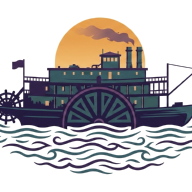
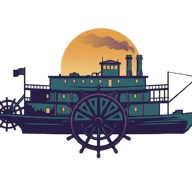
The mark is cut from the drawing that was already on nothing
Named behaviour change: the corner mark and the launcher icon are cut from
art/boat.png, and both show more of the boat.

boat.png is the same riverboat drawn on transparency, with no wave field. It is
a better source than the JPEG in three ways: nothing has to be knocked out of
it, so no edge is guessed at; the boat sits at 49.9% across its own picture
instead of 44.5%, so it needs no correcting; and with no waves running off to
the right the launcher can be larger inside the 72dp circle -- 0.656 of the tile
against 0.711, but of a taller picture, so the boat itself gains.

The corner's window widened with it. It was 0.714 of the width, which on the old
drawing cut only wave tips and the far spar; on this one it cut hull. 0.90 cuts
the flag and the tip of the spar and nothing else.

art/icon.jpeg stays. It is not a source any more but it is the drawing the
swatches' colours were read out of, and the README says which is which.

diff --git a/README.md b/README.md
@@ -927,10 +927,9 @@ foreground drawn on nothing; `res/drawable-xxxhdpi/boat_mark.png` is 108dp with
 the drawing inside the middle 72dp, which is all Android promises to keep -- a
 round launcher cuts the rest away. It is as large as it goes with every inked
 pixel still inside that circle, and it is placed by where the ink is rather than
-by the edges of the picture, so the boat sits in the middle of the circle and
-not to the left of it. The corner's tile is a closer cut of the same drawing,
-because a 38px square has no room for the waters either side. Both come from
-`art/icon.jpeg` at the root of the tree, which is not shipped.
+by the edges of the picture. The corner's tile is a closer cut of the same
+drawing, because a 38px square is squarer than a boat. Both are cut from
+`art/boat.png` at the root of the tree, which is not shipped.
 
 **The splash is still the card mark:** five stacks of cards, 1-2-3-2-1, the hand
 growing to the top of the river and shrinking back down, with the card at the
@@ -1466,7 +1465,7 @@ and lets it off by hand rather than waiting. Run it alone with
   number in the body of the file is a colour no swatch could change, and
   `test-pages.js` fails on one.
 - `public/art/` — the pictures the pages load. `mark.png` is the game's mark, the riverboat drawn on nothing, in the corner of every page that carries the name.
-- `art/` — the drawings the marks are cut from, at the size they were drawn. Kept out of `public/` on purpose: everything under `public/` is packed into the APK and unpacked on the device at first run, and a source file no page loads has no business there.
+- `art/` — the drawings, at the size they were drawn. `boat.png` is what both marks are cut from; `icon.jpeg` is the same boat on a white ground, which the swatches' colours were read out of. Kept out of `public/` on purpose: everything under `public/` is packed into the APK and unpacked on the device at first run, and a source file no page loads has no business there.
 
 ## Notes
 
